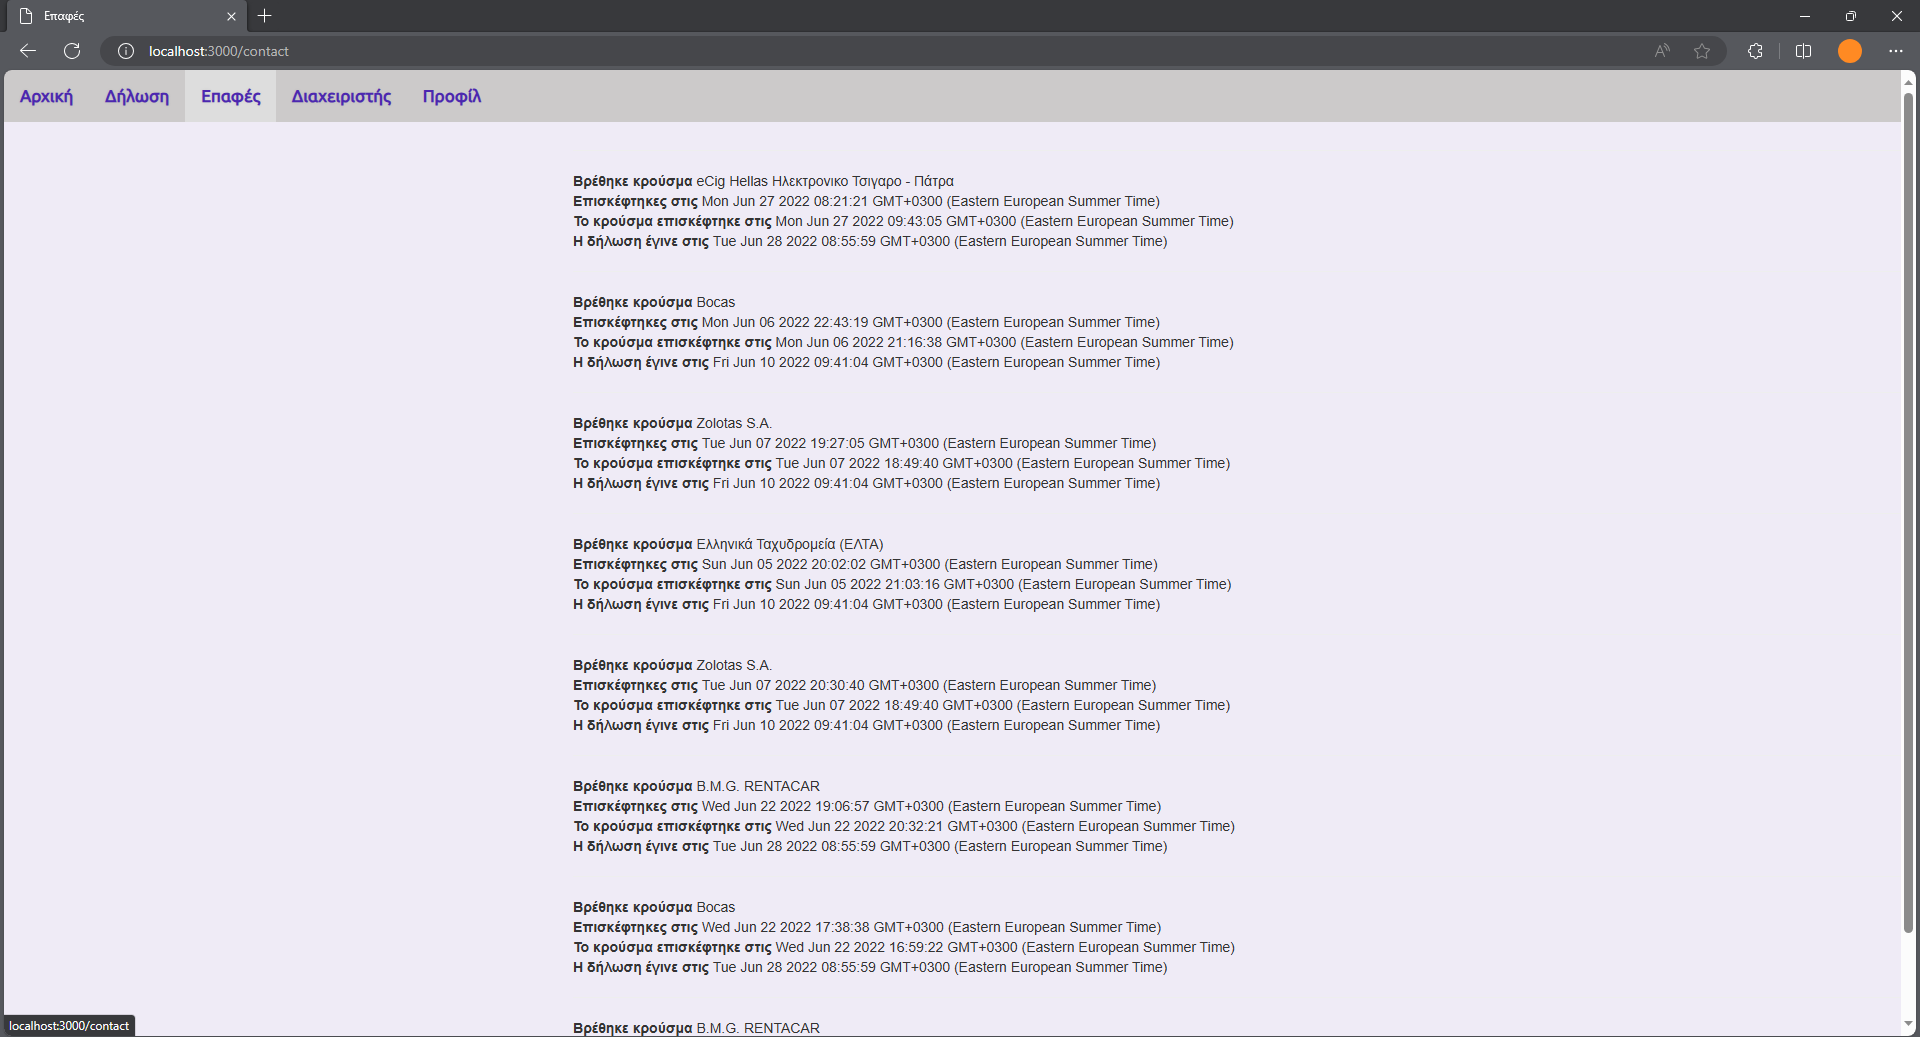
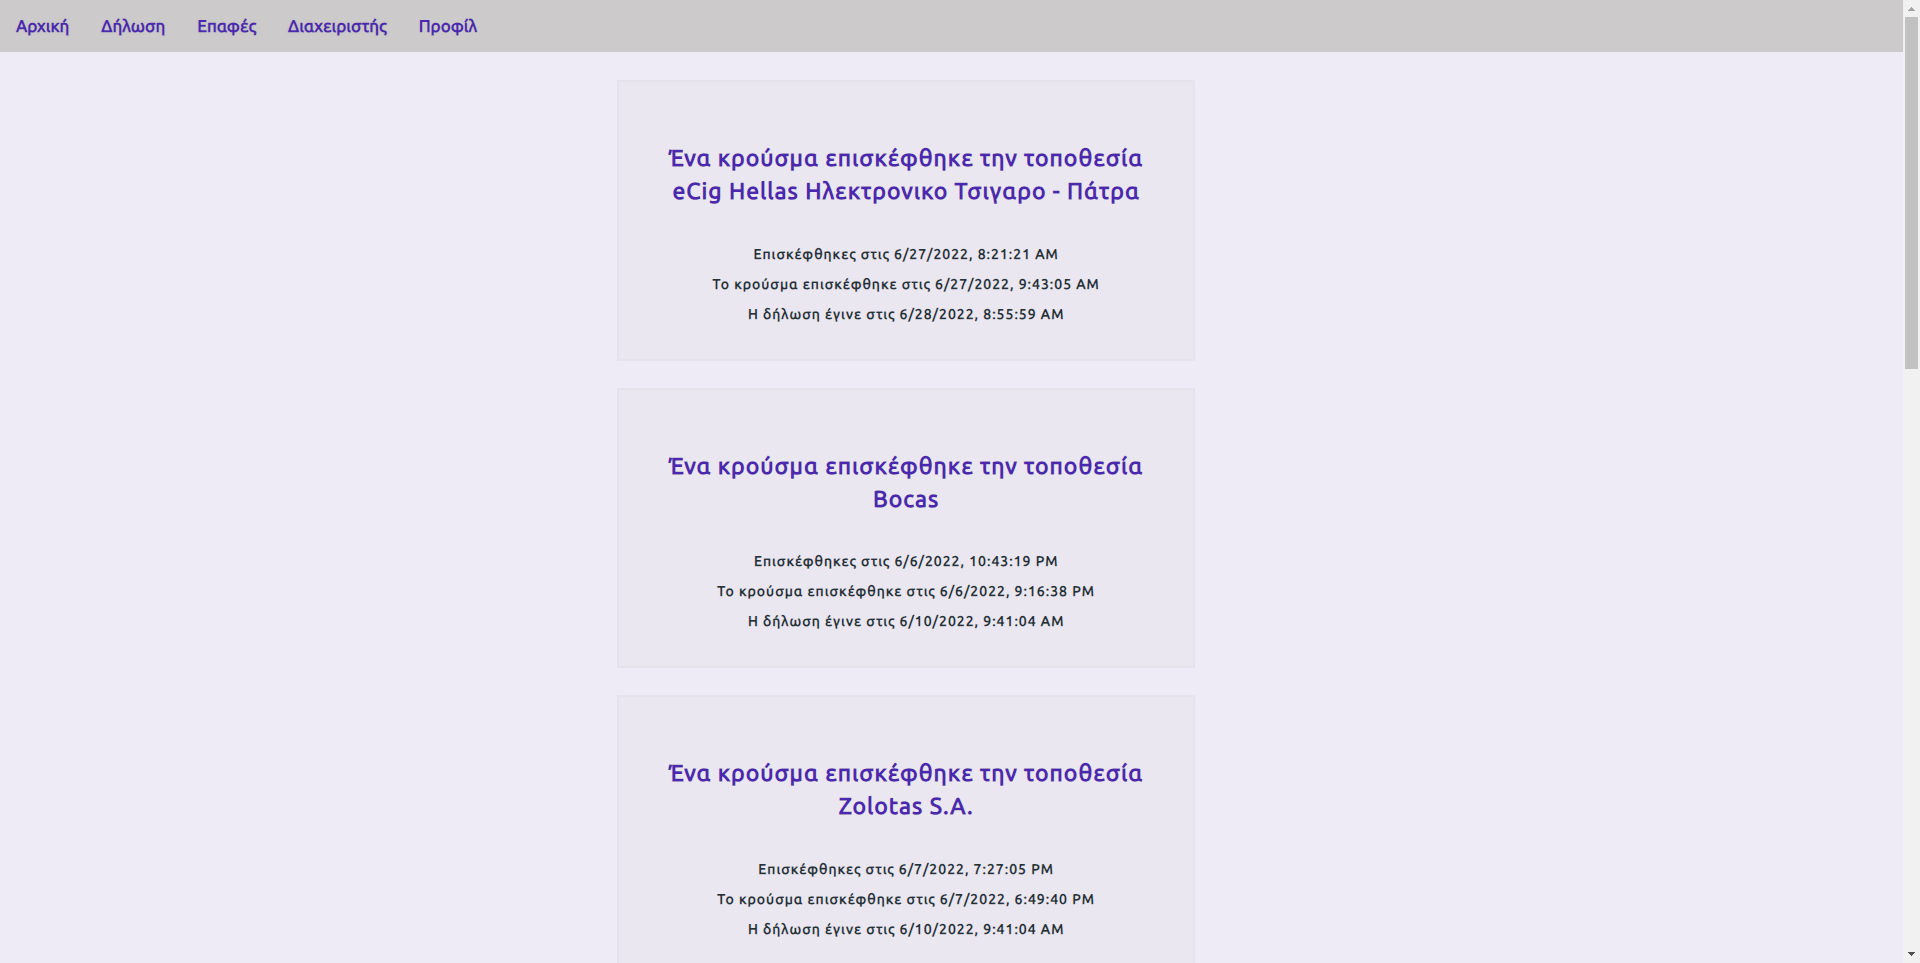
readme and screenshots new

diff --git a/README.md b/README.md
@@ -48,14 +48,16 @@ Then, you can log-in as any user "X" entering `userXpass` as password, or as adm
 
 
 ## Screenshots
-*User Authentication*
+*Sign Up Page*
 ![App Screenshot](https://github.com/manosmin/ceid-web/blob/master/screenshots/ss5.png)
-*Map View*
+*Map View Page*
 ![App Screenshot](https://github.com/manosmin/ceid-web/blob/master/screenshots/ss3.png)
 *Location Check-In*
 ![App Screenshot](https://github.com/manosmin/ceid-web/blob/master/screenshots/ss2.png)
-*Health Status Updates*
+*Health Status Update Page*
 ![App Screenshot](https://github.com/manosmin/ceid-web/blob/master/screenshots/ss1.png)
-*Contact Tracing*
+*Contact Tracing Page*
 ![App Screenshot](https://github.com/manosmin/ceid-web/blob/master/screenshots/ss4.png)
+*History Page*
+![App Screenshot](https://github.com/manosmin/ceid-web/blob/master/screenshots/ss6.png)
 
